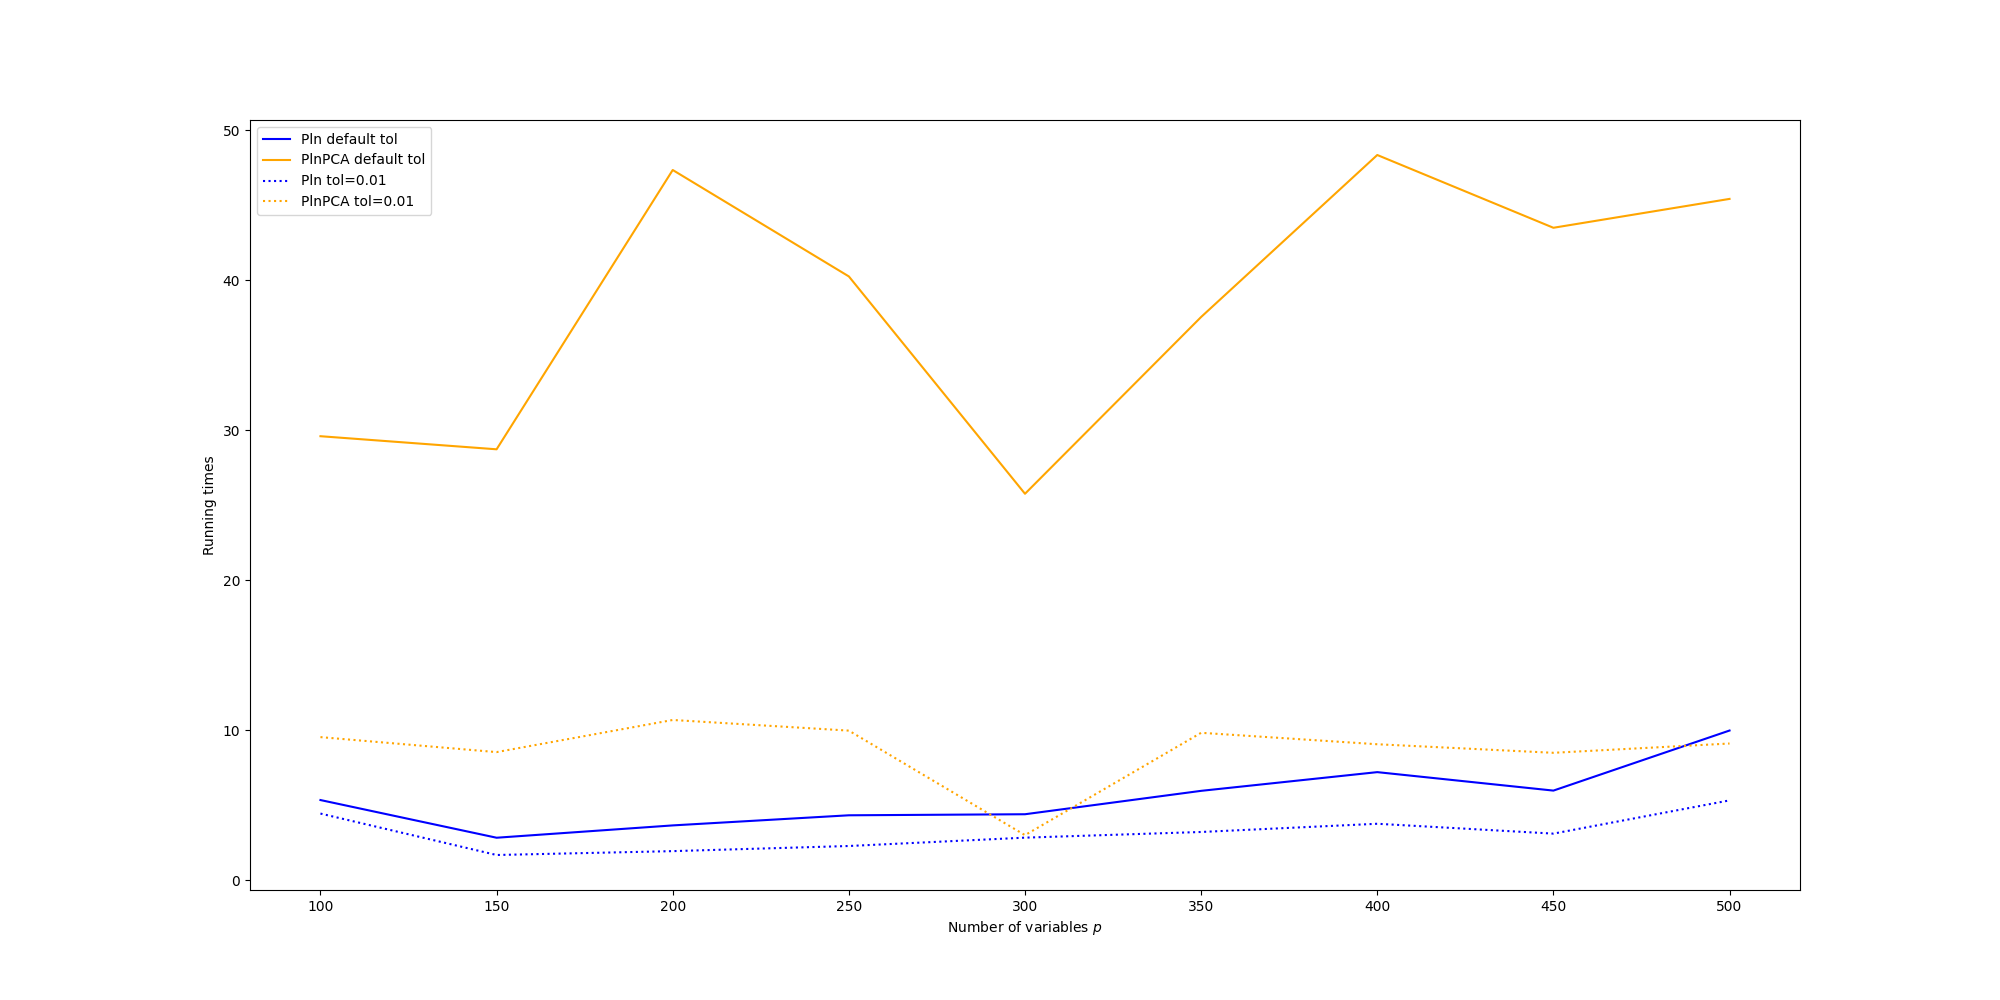
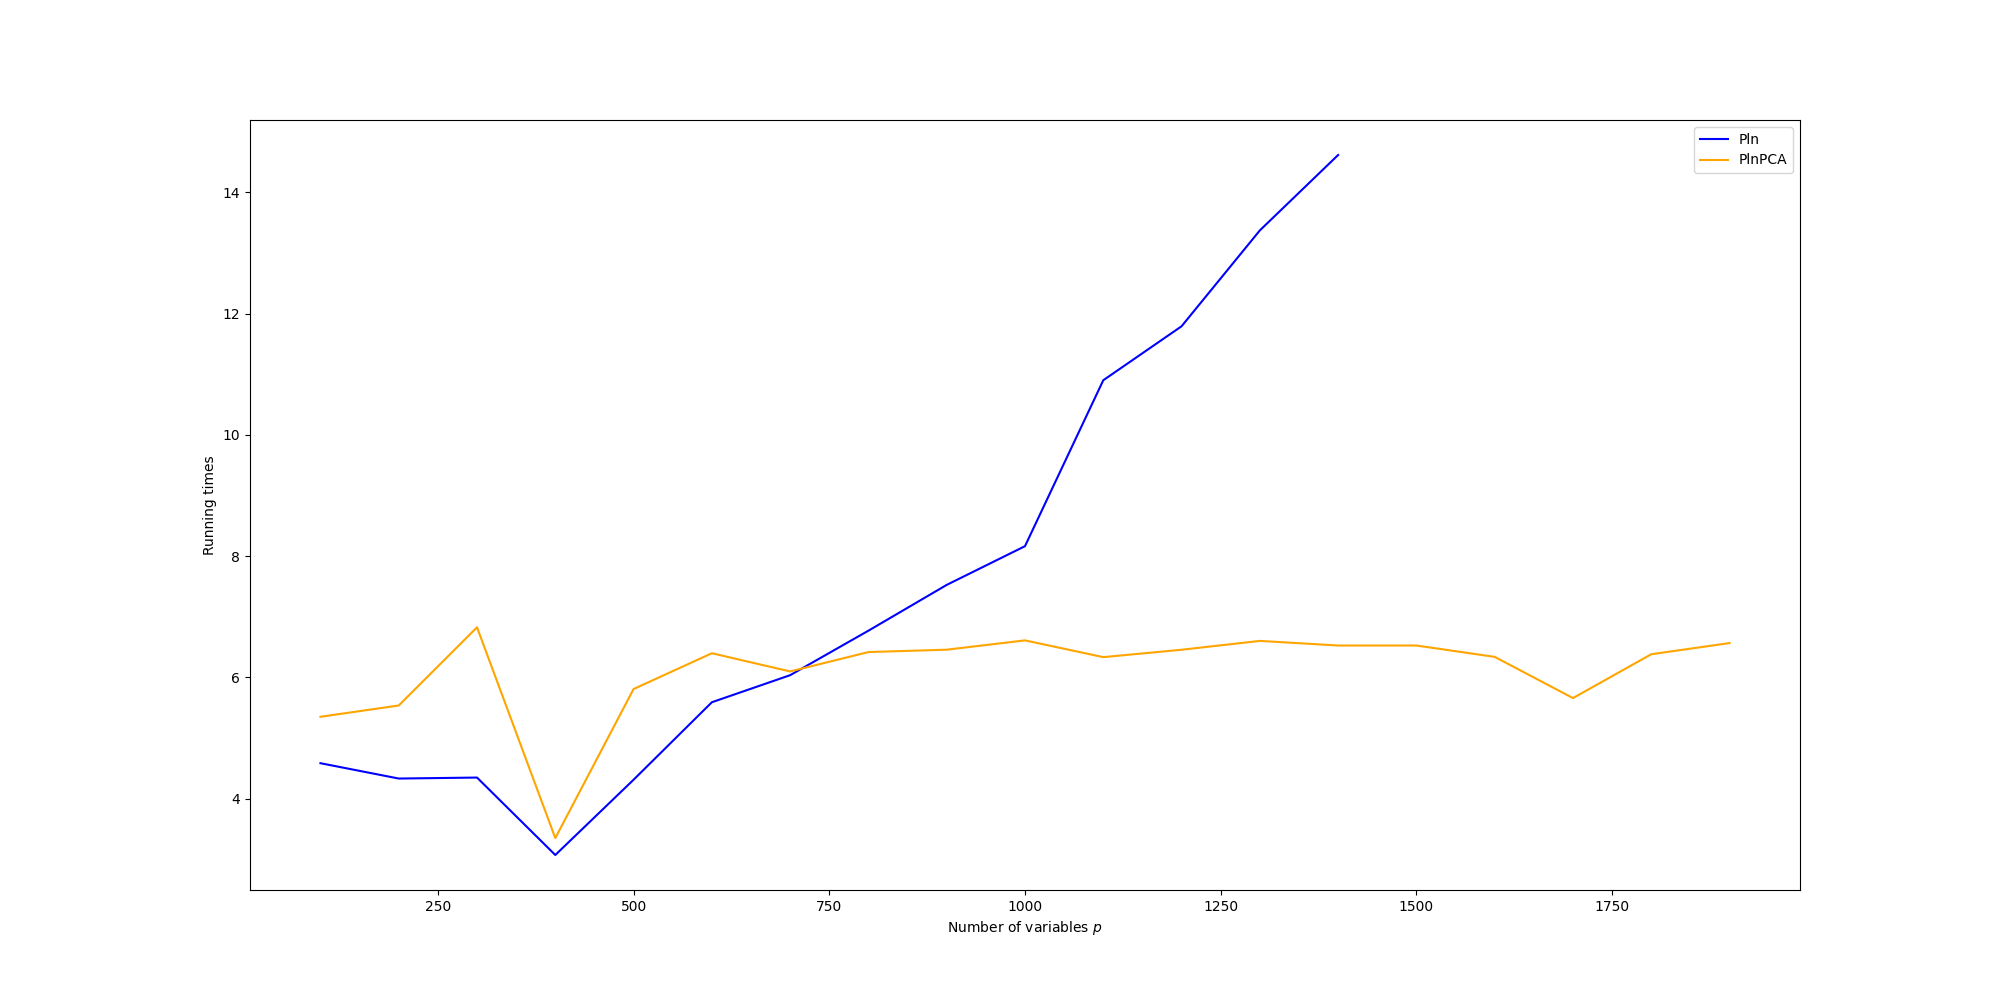
reformatted wihtout sharp and low tol

diff --git a/benchmark.py b/benchmark.py
@@ -1,3 +1,4 @@
+from os.path import exists
 from pyPLNmodels import Pln, PlnPCA
 import numpy as np
 import scanpy
@@ -7,6 +8,7 @@ import torch
 import pandas as pd
 from sklearn.preprocessing import LabelEncoder
 import pickle
+import os
 from tqdm import tqdm
 
 
@@ -37,16 +39,13 @@ def append_running_times_model(Y, model_str):
         model = PlnPCA(Y, rank=rank)
         model.fit(nb_max_iteration=2000)
 
-    rough_running_times = model._plotargs.running_times[
-        next(i for i, v in enumerate(model._plotargs.criterions) if v < rough_tol)
-    ]
-
-    dict_rt[model_str]["rough"].append(rough_running_times)
-    dict_rt[model_str]["sharp"].append(model._plotargs.running_times[-1])
+    dict_rt[model_str].append(model._criterion_args.running_times[-1])
 
 
 def plot_dict(dict_rt, model_str):
-    dict_rt_model = dict_rt[model_str]
+    print("dict_rt", dict_rt)
+    print("model str", str(model_str))
+    dict_rt_model = dict_rt[str(model_str)]
     if model_str == "Pln":
         ps = ps_pln
         color = "blue"
@@ -54,15 +53,7 @@ def plot_dict(dict_rt, model_str):
         ps = ps_plnpca
         color = "orange"
     print("ps_pln:", ps_pln)
-    print("dict model ", dict_rt_model["sharp"])
-    plt.plot(ps, dict_rt_model["sharp"], color=color, label=f"{model_str} default tol")
-    plt.plot(
-        ps,
-        dict_rt_model["rough"],
-        color=color,
-        label=f"{model_str} tol=0.01",
-        linestyle="dotted",
-    )
+    sns.lineplot(x=ps, y=dict_rt_model, color=color, label=f"{model_str}")
     plt.legend()
     plt.xlabel(r"Number of variables $p$")
     plt.ylabel("Running times")
@@ -74,16 +65,19 @@ if __name__ == "__main__":
     # pn = 14059
     # ecart = 300
     fig = plt.figure(figsize=(20, 10))
-    pmax_pln = 300
-    pn = 500
-    ecart = 200
+    pmax_pln = 1500
+    pn = 2000
+    ecart = 100
     rank = 40
     ps_pln = np.arange(100, pmax_pln, ecart)
     ps_plnpca = np.concatenate((ps_pln, np.arange(pmax_pln, pn, ecart)))
-    name_file = f"n_{n}_nbps_{len(ps_plnpca)}_p0_{p0}_pn_{pn}_ecart_{ecart}_rank_{rank}"
+    name_file = (
+        f"n_{n}_nbps_{len(ps_plnpca)}_p0_{pmax_pln}_pn_{pn}_ecart_{ecart}_rank_{rank}"
+    )
     dict_rt = {"Pln": [], "PlnPCA": []}
 
     if True:
+        # if exists(name_file) is False:
         for p in tqdm(ps_plnpca):
             print("dim:", p)
             Y, _, _ = get_sc_mark_data(max_n=n, dim=p)
@@ -94,9 +88,9 @@ if __name__ == "__main__":
         with open(name_file, "rb") as fp:
             dict_rt = pickle.load(fp)
 
+    with open(name_file, "wb") as fp:
+        pickle.dump(dict_rt, fp)
     plot_dict(dict_rt, "Pln")
     plot_dict(dict_rt, "PlnPCA")
     plt.savefig(f"paper/illustration.png", format="png")
     plt.show()
-    with open(name_file, "wb") as fp:
-        pickle.dump(dict_rt, fp)
